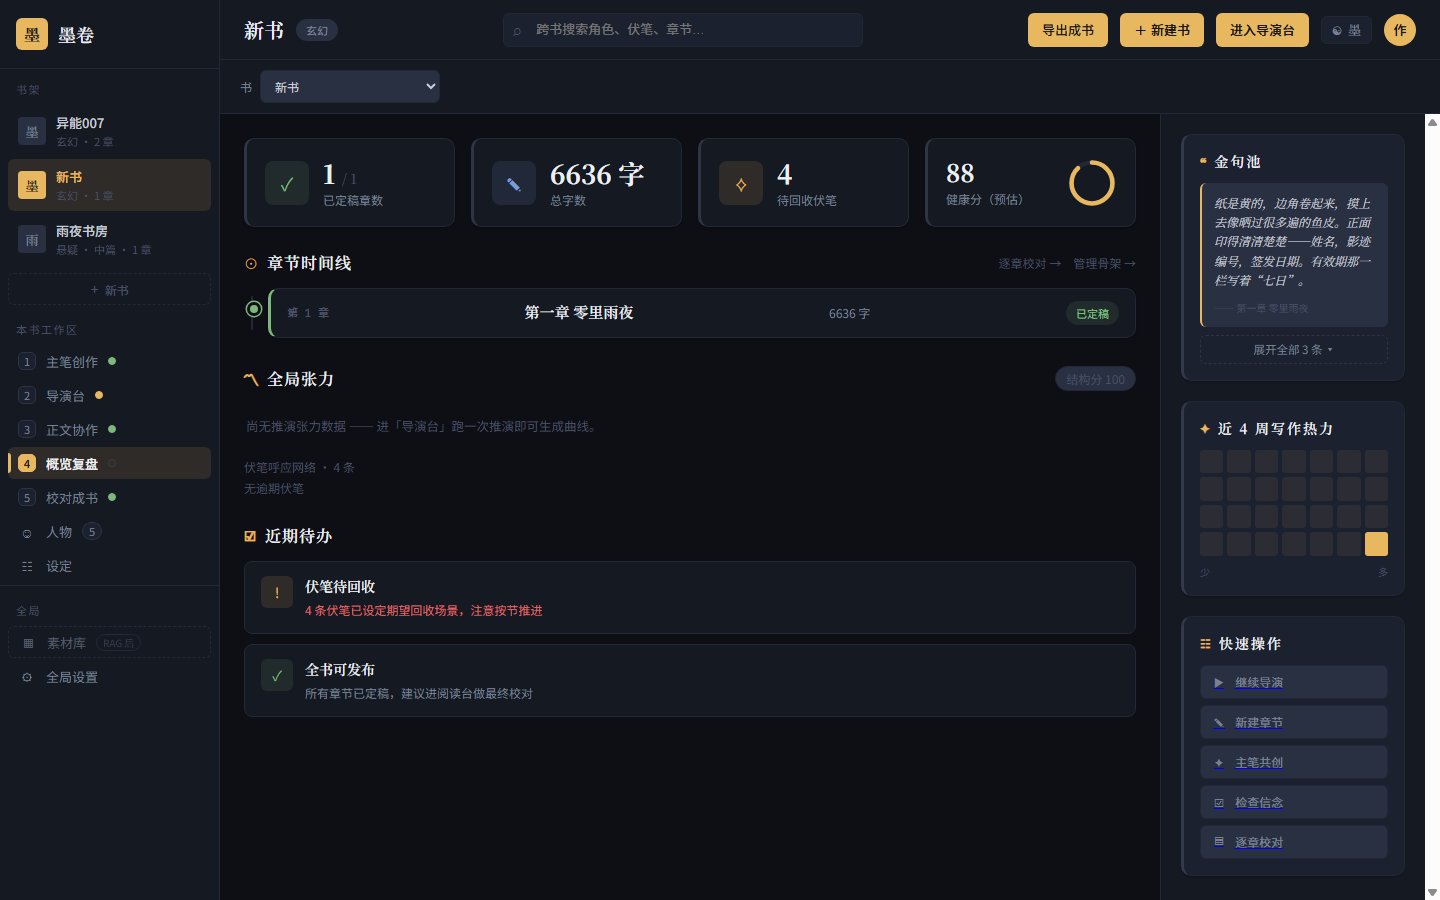
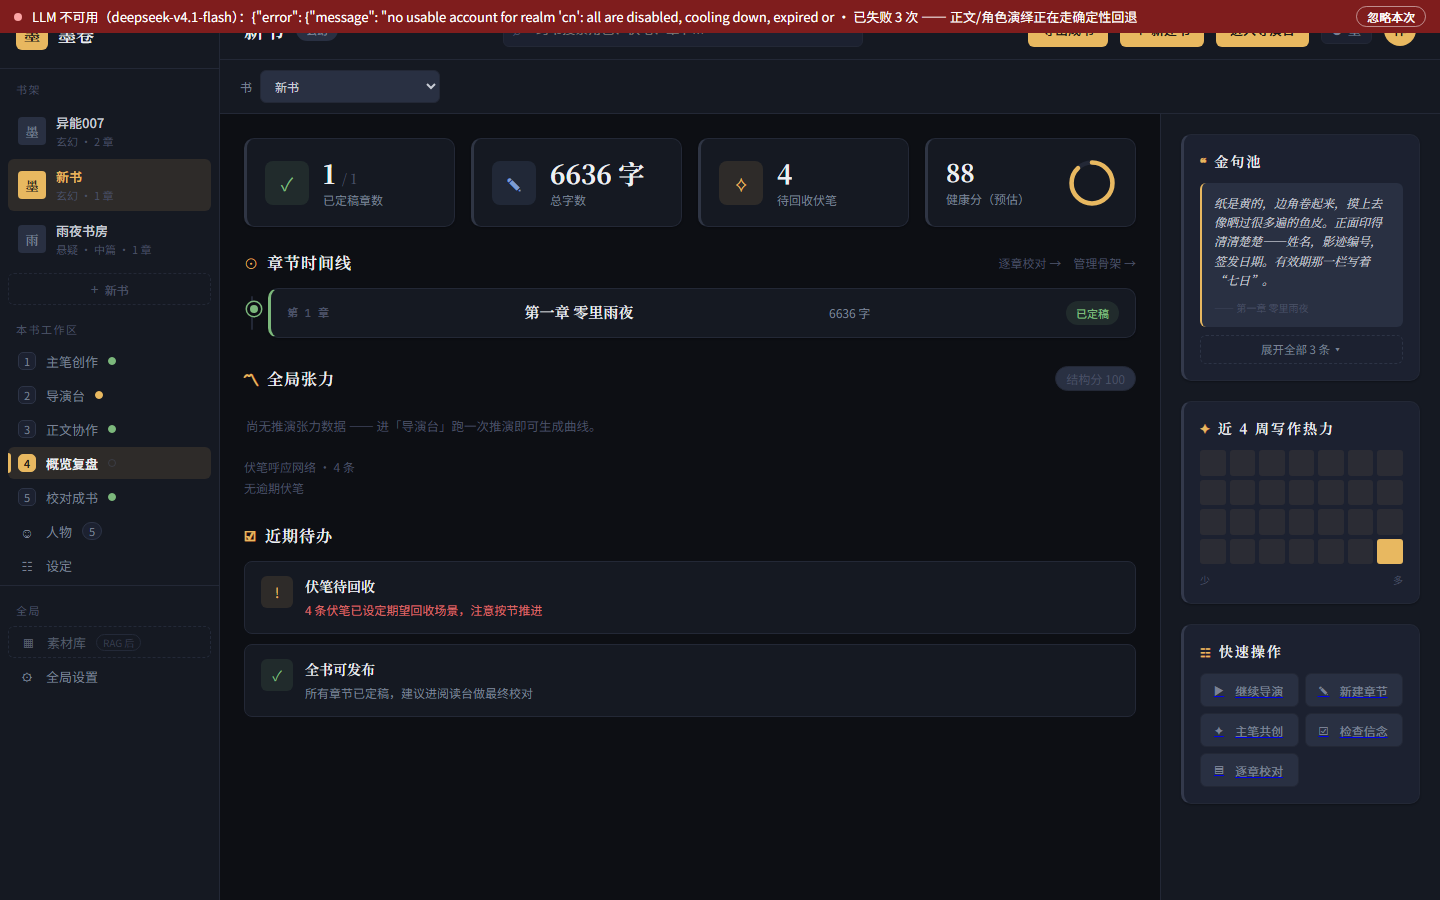
feat(P1): 章级编排按"场功能"推进 + 主线视图补全书进度 + 2 处 UI 收尾（v1.47）
P1 起步（产品方向 v2）：
1) 按场编排：chapter_segment_goals(word_target, scenes=…) —— 有场时**每场一段**，
   段目标 = 「第 N 场《标题》：本场目标」；场数超 MAX_SEGS=8 时相邻合并（一场不丢）；
   无场才退回通用「开篇→推进×n→收束」。段目标字数 = word_target / 段数（原固定 800）。
   意义：写手终于知道"这一段要完成第 3 场那件事"（主笔本来就产出 goal，此前没人用）。
2) 主线视图：写作页左栏加「全书进度 · 第 N 章 / 共 M 章」。
3) UI：快速操作 5 个竖排 → 2 列网格；章正文区左内边距 22→36px（¶ 序号不再贴边）。

验收：pytest 273 passed（+4）· tsc 0 · build ok · L3 13/13
（本轮上游账号池熔断，⑨⑩ 按新规则正确 SKIP，⑪⑫ PASS —— T9 降级横幅也在页面上亮着）。

未做（下一轮）：P1 的「场景设定兜底生成」「章后自动一致性巡检」——都要真 LLM 才验得了。

Changed region(s): [[0.8125, 0.1244, 1.0, 1.0], [0.0, 0.0, 1.0, 0.0622], [0.875, 0.3733, 0.9375, 0.4044]]

diff --git a/frontend/src/pages/WritePage.tsx b/frontend/src/pages/WritePage.tsx
@@ -27,7 +27,9 @@ interface SceneRow { id: string; title?: string; goal?: string; final_prose?: st
 export function WritePage() {
   const { chapterId = '' } = useParams<{ chapterId: string }>();
   const nav = useNavigate();
-  const { book } = useWorkspace();
+  const { book, chapters } = useWorkspace();
+  /** 全书章进度（v1.47 主线视图）：作者一进来就知道"写到第几章了" */
+  const chapterIdx = chapters.findIndex((c) => c.id === chapterId);
   const { showConfirm } = useDialog();
 
   const [text, setText] = useState('');
@@ -144,6 +146,11 @@ export function WritePage() {
           <div className="s2-body">
             <aside className="s2-info">
               <div className="s2-info-title">这一章</div>
+              <div className="s2-kv"><span>全书进度</span>
+                <b>{chapters.length > 0
+                  ? `第 ${chapterIdx >= 0 ? chapterIdx + 1 : '?'} 章 / 共 ${chapters.length} 章`
+                  : '—'}</b>
+              </div>
               <div className="s2-kv"><span>字数目标</span><b>{wordTarget > 0 ? `${wordTarget} 字` : '未设（默认 4000）'}</b></div>
               <div className="s2-kv"><span>基调</span><b>{tone || '未定'}</b></div>
               <div className="s2-kv"><span>要完成的事</span>

diff --git a/frontend/src/styles/workspace.css b/frontend/src/styles/workspace.css
@@ -790,7 +790,7 @@
 .s2-dirty { color: var(--accent-warn); font-weight: 600; }
 
 /* ---------- 章级写作主线（v1.46 · 直写链路） ---------- */
-.wp-prose { padding: 18px 22px; max-height: 100%; overflow-y: auto; }
+.wp-prose { padding: 18px 22px 18px 36px; max-height: 100%; overflow-y: auto; }
 .wp-para {
   position: relative;
   margin: 0 0 18px;

diff --git a/frontend/src/styles/dashboard.css b/frontend/src/styles/dashboard.css
@@ -964,9 +964,10 @@ a.btn-primary {
 }
 
 /* 快速操作 */
+/* v1.47：快速操作改 2 列网格（原来 5 个竖排占满右栏高度） */
 .quick-actions {
-  display: flex;
-  flex-direction: column;
+  display: grid;
+  grid-template-columns: 1fr 1fr;
   gap: 6px;
 }
 

diff --git a/backend/app/services/service.py b/backend/app/services/service.py
@@ -1279,7 +1279,9 @@ class SimulationService:
         scenes_text += ("【本章场景大纲】\n" + scene_lines) if scene_lines else "（本章未拆场）"
         return {"chapter": chapter, "book_id": book_id, "characters": characters,
                 "memory": memory, "constraints": constraints, "world_states": world_states,
-                "existing": existing, "scenes_text": scenes_text, "word_target": target}
+                "existing": existing, "scenes_text": scenes_text, "word_target": target,
+                # v1.47：把场清单原样带出，供分段编排按"场功能"推进
+                "scenes": scenes}
 
     async def save_chapter_prose(self, chapter_id: str, text: str) -> dict:
         """保存章正文（唯一真源：chapters.prose_md）→ **自动触发章级记账**（后台任务）。
@@ -1361,14 +1363,16 @@ class SimulationService:
         from app.services.engine.prose import SEG_CHARS, chapter_prompt, chapter_segment_goals
 
         ctx = await self._chapter_context(chapter_id)
-        goals = chapter_segment_goals(ctx["word_target"])
+        # v1.47 · P1 章级编排：有场时按场功能分段（每场一段，段目标带场标题+本场目标）
+        goals = chapter_segment_goals(ctx["word_target"], scenes=ctx.get("scenes"))
+        seg_target = max(300, int(ctx["word_target"]) // max(1, len(goals)))
         written = ctx["existing"]
         for i, goal in enumerate(goals, start=1):
             prompt = chapter_prompt(
                 chapter=ctx["chapter"], characters=ctx["characters"],
                 world_states=ctx["world_states"], constraints=ctx["constraints"],
                 memory=ctx["memory"], scenes=ctx["scenes_text"], written=written,
-                seg_no=i, seg_total=len(goals), seg_goal=goal, seg_target=SEG_CHARS)
+                seg_no=i, seg_total=len(goals), seg_goal=goal, seg_target=seg_target)
             seg: list[str] = []
             if i > 1:
                 yield "\n\n"          # 段间空行：前端直接拼接即成段落

diff --git a/backend/tests/test_chapter_draft.py b/backend/tests/test_chapter_draft.py
@@ -159,3 +159,33 @@ async def test_chapter_bookkeeping_skips_without_llm(svc):
     """LLM 未接入 → 明确 skipped（不静默、不报错、不回滚已保存正文）。"""
     out = await svc.chapter_bookkeeping("ch-w", "随便一段。")
     assert out.get("skipped") and "LLM" in str(out["skipped"])
+
+def test_segment_goals_follow_scenes():
+    """v1.47 · P1 章级编排：有场时按场功能分段——每场一段，段目标带场标题与本场目标。"""
+    scenes = [
+        {"title": "零里废弃车站", "goal": "主角醒来，发现路引"},
+        {"title": "第一里界墙", "goal": "被影子识破"},
+        {"title": "午夜前地下通道", "goal": "进入地下黑市"},
+    ]
+    goals = chapter_segment_goals(2500, scenes=scenes)
+    assert len(goals) == 3
+    assert goals[0].startswith("第 1 场《零里废弃车站》") and "路引" in goals[0]
+    assert "第 3 场《午夜前地下通道》" in goals[2] and "地下黑市" in goals[2]
+
+
+def test_segment_goals_merge_when_too_many_scenes():
+    """场数超过 MAX_SEGS 时相邻合并（不丢场），段目标标注合并了几场。"""
+    scenes = [{"title": f"场{i}", "goal": ""} for i in range(1, 13)]
+    goals = chapter_segment_goals(9999, scenes=scenes)
+    # 合并规则：每组 ceil(12/8)=2 场 → 6 组（≤ 上限，且 12 场一个不丢）
+    assert 1 <= len(goals) <= MAX_SEGS
+    assert "合并" in goals[0]
+    all_titles = " ".join(goals)
+    assert all(f"场{i}" in all_titles for i in range(1, 13))
+
+
+def test_segment_goals_fallback_without_scenes():
+    """没有场时仍退回通用节奏（开篇→推进→收束）——无场景也能写。"""
+    goals = chapter_segment_goals(1600, scenes=[])
+    assert goals[0].startswith("开篇")
+    assert goals[-1].startswith("收束")

diff --git a/docs/代码导航与Bug追踪Wiki.md b/docs/代码导航与Bug追踪Wiki.md
@@ -9,6 +9,7 @@
 
 | 版本         | 日期             | 变更摘要                                                                                                                                                                                                                                                                                                                                                                                                                                                                        | 作者            |
 | ---------- | -------------- | --------------------------------------------------------------------------------------------------------------------------------------------------------------------------------------------------------------------------------------------------------------------------------------------------------------------------------------------------------------------------------------------------------------------------------------------------------------------------- | ------------- |
+| **v1.47**  | 2026-10-20     | ★**P1 起步：章级编排按「场功能」推进 + 主线视图补全书进度**——①**按场编排**：`chapter_segment_goals(word_target, scenes=…)` 有场时**每场一段**（段目标 = 「第 N 场《标题》：本场目标」），场数超 `MAX_SEGS=8` 时相邻合并（一个场都不丢）；没场时才退回通用「开篇→推进×n→收束」。段目标字数 = `word_target / 段数`（原来固定 800）。意义：写手终于知道"这一段要完成第 3 场那件事"，而不是笼统的"推进一层"（设计稿里主笔本来就产出 `goal`，此前没人用）。②**主线视图**：写作页左栏加「全书进度 · 第 N 章 / 共 M 章」（首屏就知道写到哪）；③**UI 两处**：快速操作 5 个竖排 → **2 列网格**；章正文区左内边距 22→36px（¶ 序号不再贴边）。验收：pytest **273 passed**（+4：按场编排/超限合并/无场回退/全书进度）· tsc 0 · build ok · L3 **13/13**（本轮上游账号池熔断，⑨⑩ 按新规则正确 SKIP，⑪⑫ PASS）。**未做（下一轮）**：P1 的「场景设定兜底生成」与「章后自动一致性巡检」——两者都要真 LLM 才验得了，等上游恢复 | 主笔 Agent |
 | **v1.46**  | 2026-10-21     | ★★**直写链路：章成为最小可写单位，写出第一整章**——产品方向 v2 的第一刀。根因：正文只存在 `scenes.final_prose` → **没有场景就没有写作入口**（Studio 空态死路），且写手 prompt 把字数写死 150-220 字 → 一场=一段，全书至今 286 字。①**存储**：迁移 `0018_chapter_prose` 给 chapters 加 `prose_md`（章正文权威列）；②**写手升级为章级渲染器**：`chapter_segment_goals`（按 word_target 拆 2-8 段，形状=开篇→推进×n→收束，0-token）+ `_CHAPTER_PROMPT`（章级上下文：标题/基调/张力曲线/字数目标/本章摘要/角色卡/账本/约束/记忆/场大纲/上一章结尾/已写尾部 600 字）+ `draft_chapter`；③**接口**：`POST /chapters/{id}/prose/draft/stream`（SSE，段间自动承接+空行）+ `PUT`；**老接口 `GET /chapters/{id}/prose` 合并为「章正文优先、场景聚合回退」**（不新增第二个读真源；新增 prose_md/words/word_target/tone/summary 字段，老字段零破坏）；④**前端主线视图** [WritePage](file:///e:/novel_desk-agent/frontend/src/pages/WritePage.tsx)：`/write/:chapterId` —— 章信息 + 正文（¶n）+ 进度条（已写/目标/段落）+「✍ 写这一章」流式 + 未保存标记 + 保存；⑤**死路改路标**：校对页「这章还没有场景 → 章节要有场景才能落正文」改成「这章还没拆场（也能写）」+「✍ 写这一章」入口（带 `?book=` 防冷加载弹回首页）；⑥删掉自己引入的两处重复实现（重复 `GET chapters/{id}/prose` 路由、重复 ChapterProse/fetchChapterProse）——见 B52。**验证**：pytest **267 passed**（+8）· tsc 0 · L3 **13/13**（新增 ⑫ 章级写作主线）；**真跑**：在「新书·第一章 零里雨夜」（word_target=2500）点「写这一章」→ **182.8s / 6940 字符 / 6636 字 / 153 段**，落库读回一致 —— **项目第一次写出一整章**（此前全书 286 字）；⑦**P0 收尾**：保存章正文 → **自动入队章级记账**（chapter_bookkeeping arq 任务：章正文对照伏笔/信念/世界状态账本 → 写账本，复用 _apply_verify_bookkeeping；手动重跑入口 POST /chapters/{id}/bookkeeping），实测 保存 → queued → worker **12s** 完成 → 账本写入 2 条（林澈=废弃车站 / 金属徽章=携带）；⑧**数据卫生**：删掉残留冒烟测试书；⑨顺手修 **B53**（enqueue 先写状态键后校验 kind → 未知 kind 会留下永远 queued 的僵尸键，本轮漏登记 chapter_bookkeeping 正好踩中）；⑩**接线统一（v1.46 补 · B54）**：`chapters.prose_md` 是新的正文真源 → 所有「读正文/算字数」的地方统一走 `text_metrics.chapter_body/chapter_chars`（章正文优先、场景聚合回退）：**概览** KPI/时间线/金句池/写作热力、**逐章校对**（字数+完成判据）、**全局视图**曲线、**导出**（目录与正文）、**全书体检**（口吻分析样本）；语义修正——直写模式「有章正文=写完」，场景模式仍「所有场定稿」（1/3 场有正文不算写完），导出保留场景间 `* * *` 分隔；⑪**看图验收修 6 处视觉/语义缺陷（v1.46 补）**：①章级写作页顶栏误显示「下一场 ▶」（章视图语义）→ 新增 `write` 步骤：`◀ 正文协作 / 概览复盘 ▶`；②右栏直接显示内部 `book-xxxx` ID → 改显示书名；③进度「6636/2500（100%）」误导 → 超目标时如实显示「已超 N 字」（标题、右栏两处）；④概览时间线「已定稿 6636 字」与 badge「已定稿」重复 → 去掉文案里的重复；⑤全局张力空态占 ~100px 大虚线块 → 改一行灰色提示；⑥金句池抽出「“滴。”」这类垃圾 → 去引号后不足 8 字跳过；⑦顺带给「场」列表加「未写」标记 | 主笔 Agent |
 | **v1.45**  | 2026-10-20     | ★**队列活性可见 + worker 扛抖动（B51 代码层补完）**——B51 暴露出「worker 死了没人知道」：队列静默停摆，前端只能等 5 分钟轮询超时，还留下永远 running 的僵尸任务。①**worker 心跳**：每 30s 刷 `novel_ink:worker:heartbeat`（TTL 90s）；正常退出**删键**（立即被发现），被强杀则最迟 90s 过期；②**`/health.queue`**：`alive / status(ok·no-worker·stuck) / heartbeat_age / queued / in_progress / stuck`，Redis 不可达时降级为 `status=unknown` 而**不把 health 打挂**；③**前端横幅**（[DegradedBanner.tsx](file:///e:/novel_desk-agent/frontend/src/components/common/DegradedBanner.tsx)）新增「后台队列没有消费者（worker 未运行）—— 排批/审稿会/质量回环会一直排队」与「N 个任务卡在 running」两行（沿用 T9 静默降级必须反馈）；④**启动自动清扫**：`WorkerSettings.on_startup` 把上个进程留下的 running 僵尸（超过 `STUCK_SEC=600s`，避免误杀并行 worker 的活任务）标 failed 并写明原因——此前只能人工清；⑤**防抖**：新增 [worker-supervise.sh](file:///e:/novel_desk-agent/scripts/worker-supervise.sh)（退出即重启 + 带时间日志），`dev-up.sh` 改走它、不再裸 nohup。**验证**：pytest **259 passed + 1 skipped**（+5 队列健康用例）· tsc 0 · build ok · L3 **12/12**（新增 ⑪ 队列活性断言）；**真删真验**：注入假僵尸 → 杀 worker → 95s 后 `/health.queue={alive:false,status:"no-worker",stuck:1}`（横幅会亮）→ 重启 → 日志 `[worker] 启动清扫：1 个遗留 running 任务已标记 failed`、该任务转 failed、`stuck:0`、心跳恢复。**附（环境）**：期间用户提供的新 key 被上游封禁（23 个模型全部 `400 request illegal`），已回滚旧 key（实测 200 OK）；`.env` 在 .gitignore 内、不进版本库 | 主笔 Agent |
 | **v1.44**  | 2026-10-13     | ★★**写手素材治理 + 正文流式**——起因是问「写手拿到的素材是？」，把**真实装配路径** dump 出来（新增常驻诊断工具 [dump-writer-materials.py](file:///e:/novel_desk-agent/scripts/dump-writer-materials.py)：模型输出不对劲时先看它到底拿到了什么，比猜 prompt 快）后发现写手在**半裸写**：①**B48 item/term 永远注入不进来**——过滤条件是 `kind in {character,item,term} and name in cast_names`，拿**物品名/术语名**去比**角色名**集合，这两类注定全丢（实测正文两次提到「异常者」、一次提到「金属徽章」，全被裁）；②**B49 账本重复注入**——`chief_perceive` 塞了一整份**未过滤**账本（349 字里约 320 字是副本），且与筛选后的块口径不一致；新增 `include_world_states` 开关，写手侧关闭（主笔/对话侧保持 True，B27b「作者手改全量可见」不受影响）；③**B50 代词脏行直接进 prompt**——numeric 无条件放行，记账没解析到对象的行（`name=「他」`）会喂给模型；④**场景设定全空时静默**——原来渲染成「舞台：」空标签，模型不知道「没设定」就自由发挥（体检抓到的「本场设定栏全空；主角指代与猎/被猎立场倒置，结尾跳步」正是此因）；现缺失项显式标注「（未填 · 不要自行编造…）」+ prompt 增「设定缺口纪律」；⑤筛选逻辑抽成**纯函数** [scene_context.py](file:///e:/novel_desk-agent/backend/app/services/engine/scene_context.py)（可单测；被裁项**带原因**返回，不静默）；⑥**写手 token 流式**——新增 `draft_prose_stream` + `POST /scenes/{id}/prose/draft/stream`（SSE），中间正文区**边收边写**（实测首 token 10.8s、11.5s 出 228 字 / 161 个 token）；收尾必落 writer 审计，**流式中断也保存已生成部分并标注**；⑦**脏缓冲保护**——编辑区有未保存改动时，写手/采纳候选先弹确认；头部加「未保存」标记，保存按钮随状态变「💾 保存* / 💾 已保存」；⑧**测试诚实性**——L3 ⑨/⑩ 在 LLM 不健康时**明确 SKIP**（上游 503 熔断时，回退路径的「0 条问题」曾让断言**假通过**），且 ⑨ 断言排除回退报告。验收：pytest **255 passed**（+14）· tsc 0 · build ok · L3 **11/11**（新增 ⑩ 写手流式：采样到 **4 个中间态** + 出现过「写手中」按钮态 + 未保存标记）；dump 前后对比：item/term 注入 **5→7 条**、记忆块 **349→38 字**、prompt **2456→2325 字符**且信息更准 | 主笔 Agent |

diff --git a/docs/产品方向v2-现状与下一阶段规划.md b/docs/产品方向v2-现状与下一阶段规划.md
@@ -248,6 +248,10 @@
 **验收：在「新书」上写出一章 ≥4000 字，人工通读一遍**
 
 ### P1 · 一章跑通（2-3 批）
+
+> **进度（v1.47）**：✅1 主笔章级编排（按场功能分段）✅4 主线视图补"全书进度"。
+> 余：2 场景设定兜底生成、3 章后自动一致性巡检（两者需真 LLM 验证，等上游账号池恢复）。
+
 6. 主笔章级编排（每场功能/伏笔埋收点）+ 场景设定兜底生成 → 修 F3
 7. 「章后自动巡检」（体检∥质检→裁决→记账）→ 修 F5
 8. 主线视图（书→章→场 + 完成度/字数/下一步）→ 修 U1/U4/U5
